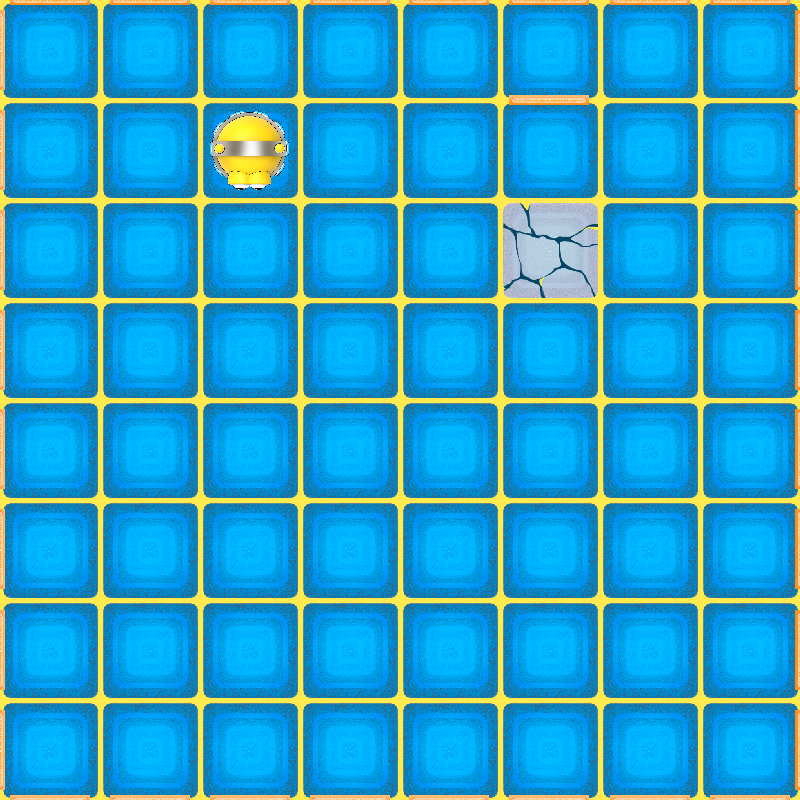
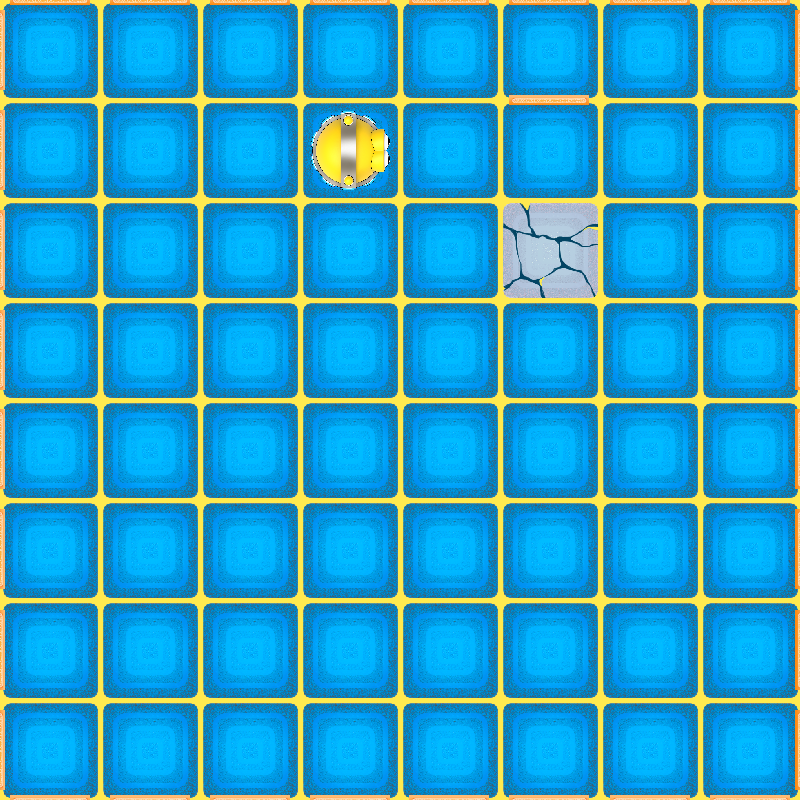
Created simple Vertun program

Changed region(s): [[0.25, 0.125, 0.5, 0.25]]

diff --git a/examples/vertun/vertun-001_game.py b/examples/vertun/vertun-001_game.py
@@ -1,3 +1,5 @@
 from moscow_robots import Game
 mg = Game("vertun-001.json")
+mg.rotate_left()
+mg.go()
 mg.main_loop()
